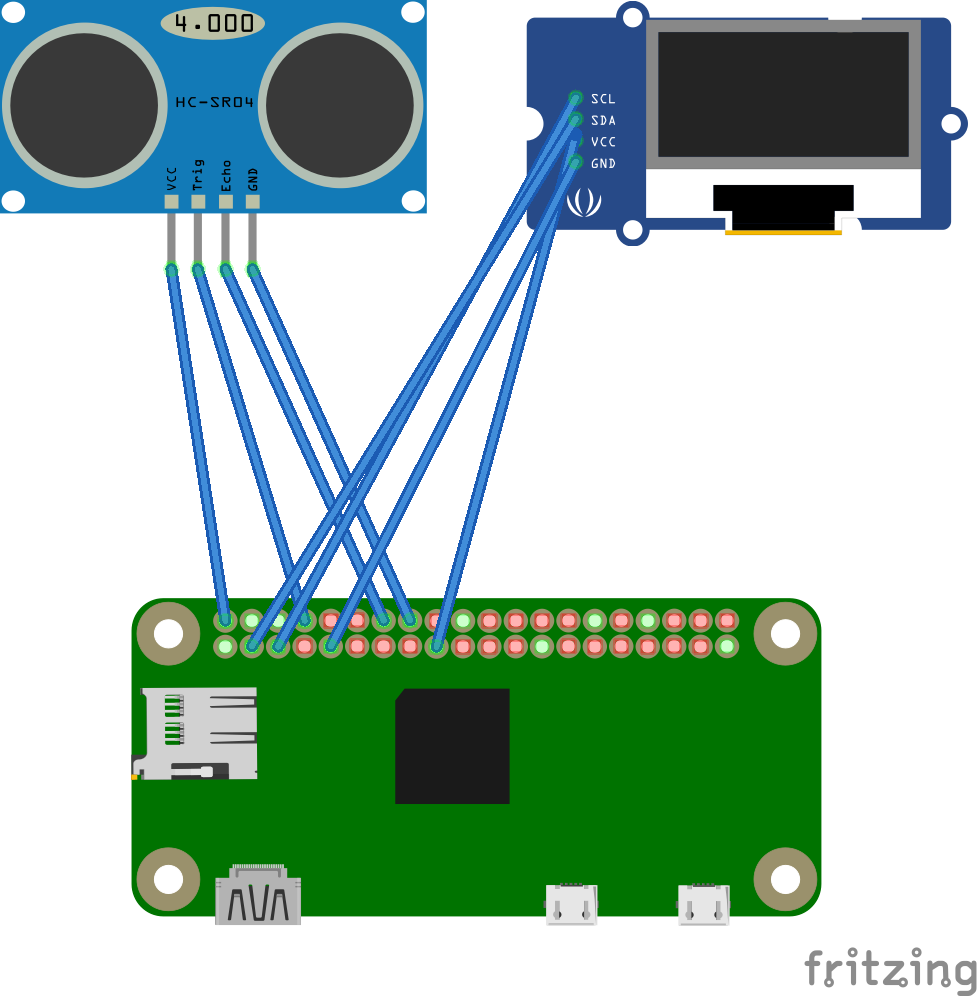
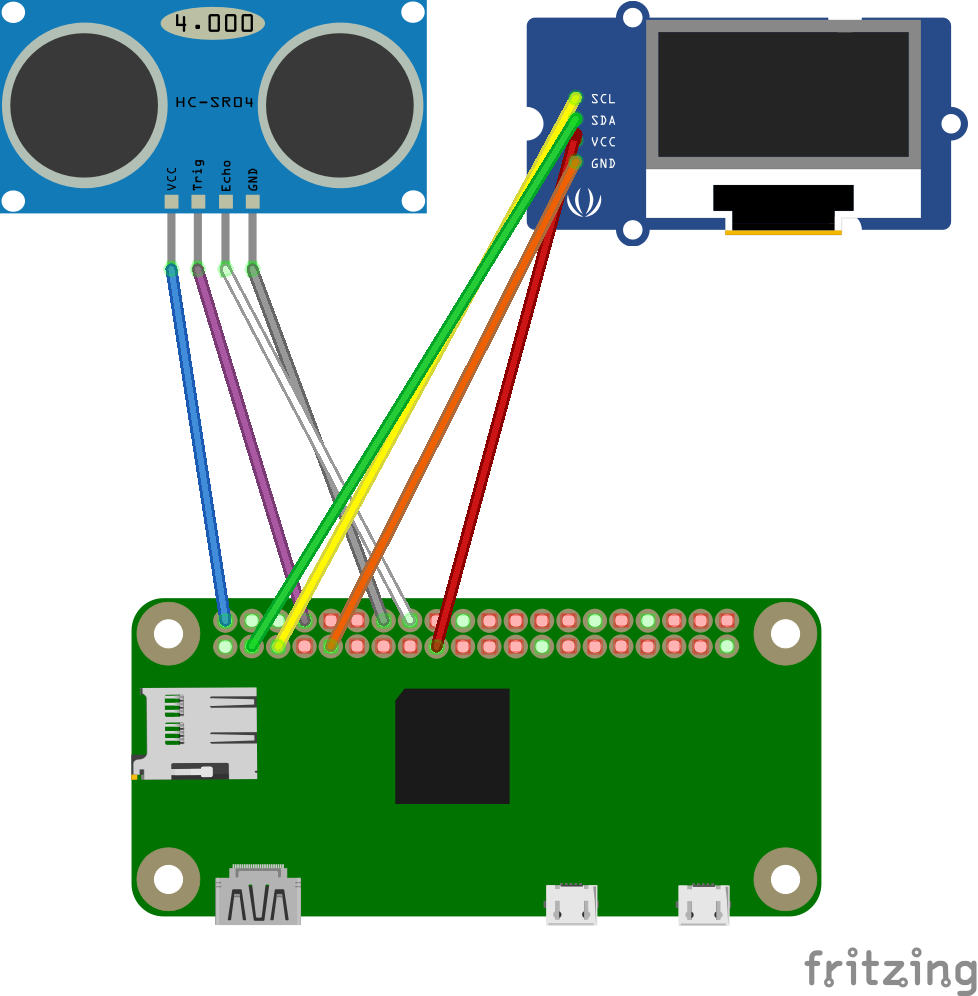
Updated the color layout

Changed region(s): [[0.184, 0.0934, 0.6135, 0.6536]]

diff --git a/README.md b/README.md
@@ -11,7 +11,7 @@ Based on the level it gives updates on Slack and real time information on the le
 ## Wiring
 ![Wiring digram](/images/setup_bb_zero.png?raw=true "Wiring digram")
 
-Our specific wire (color) layout:
+Color layout:
 ##### SENSOR
 * blue=5V
 * purple=GPIO14 | trig
